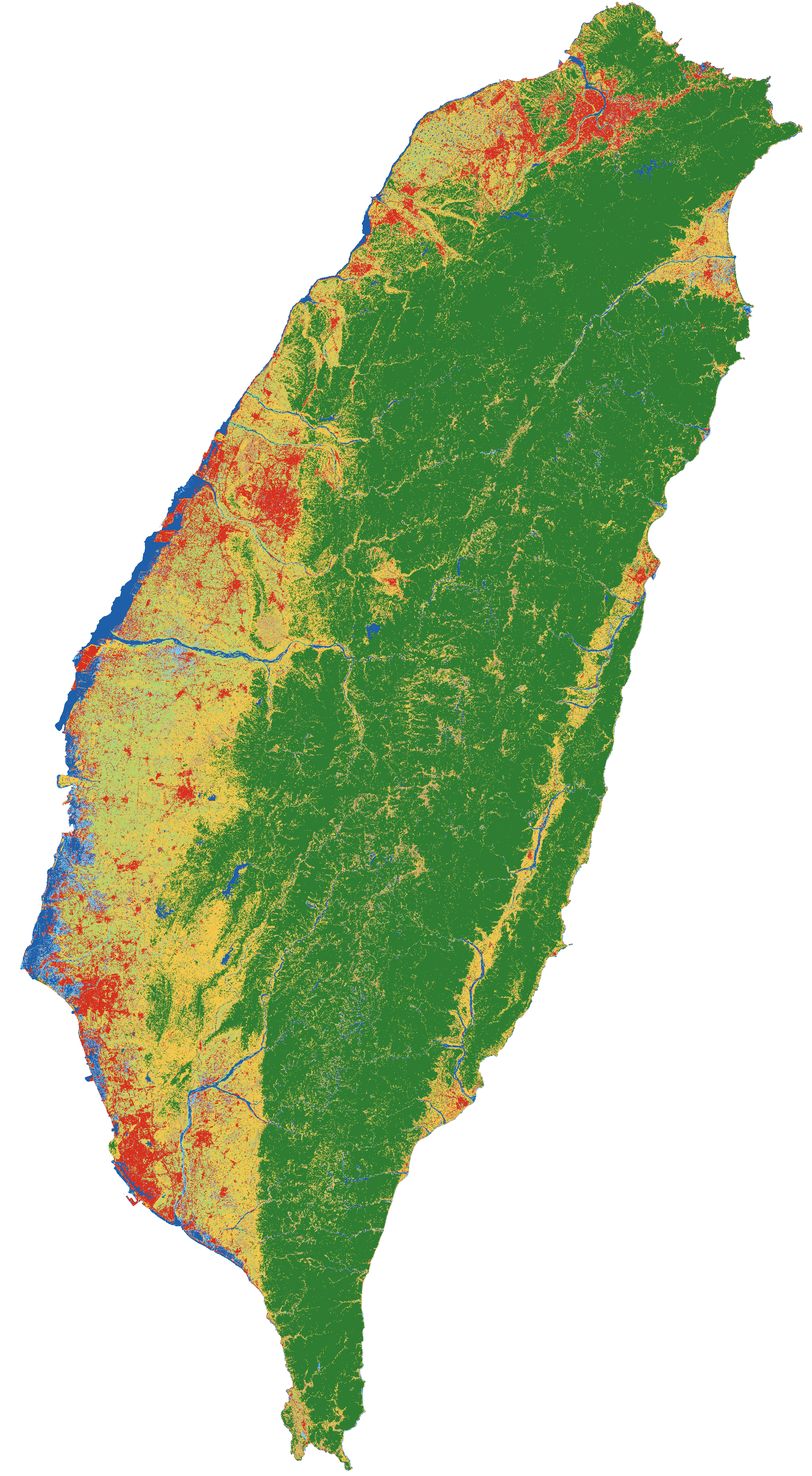
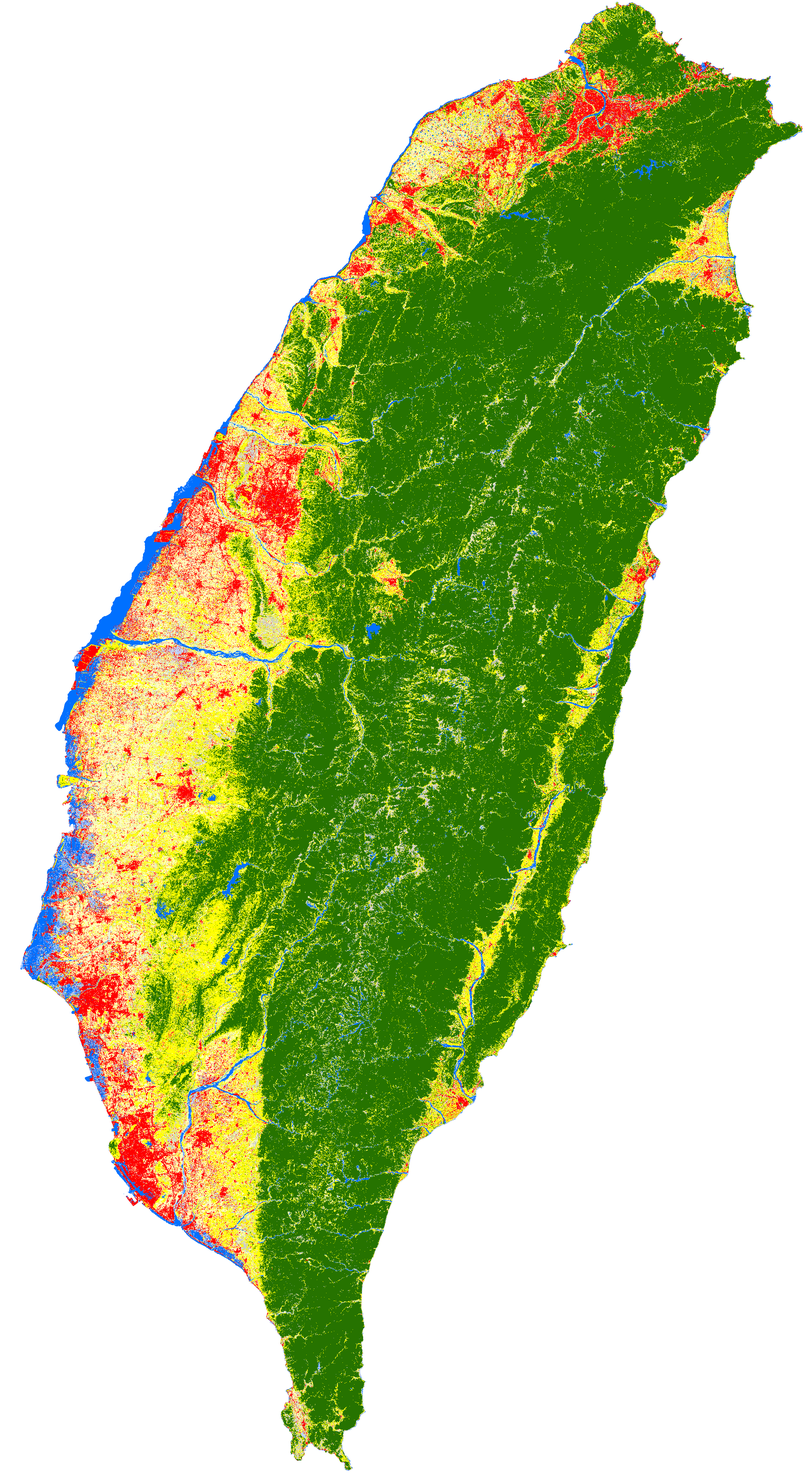
Match class colours to the paper's Fig. 5 legend
Pale colours are darkened for chart lines only; table swatches get an outline.

diff --git a/docs/index.html b/docs/index.html
@@ -68,7 +68,7 @@
   th, td { padding: 5px 4px; text-align: right; border-bottom: 1px solid var(--line); }
   th { font-size: 11px; color: var(--muted); font-weight: 600; }
   th:first-child, td:first-child { text-align: left; }
-  td .sw { display: inline-block; width: 12px; height: 12px; border-radius: 3px; vertical-align: -1px; margin-right: 7px; }
+  td .sw { display: inline-block; width: 12px; height: 12px; border-radius: 3px; vertical-align: -1px; margin-right: 7px; box-shadow: inset 0 0 0 1px rgba(0,0,0,.28); }
   .pos { color: #15803d; } .neg { color: #b91c1c; }
   :root[data-theme="dark"] .pos { color: #4ade80; } :root[data-theme="dark"] .neg { color: #f87171; }
   @media (prefers-color-scheme: dark) { :root:not([data-theme="light"]) .pos { color: #4ade80; } :root:not([data-theme="light"]) .neg { color: #f87171; } }
@@ -313,13 +313,21 @@
       ctx.restore();
     }
   };
+  // Very pale map colours (e.g. #ffffbe) vanish as chart lines: darken those for the chart only.
+  const lineColor = hex => {
+    const [r, g, b] = [1, 3, 5].map(i => parseInt(hex.slice(i, i + 2), 16));
+    const lum = (0.2126 * r + 0.7152 * g + 0.0722 * b) / 255;
+    if (lum < 0.7) return hex;
+    const f = 0.62;
+    return `rgb(${Math.round(r * f)},${Math.round(g * f)},${Math.round(b * f)})`;
+  };
   const chart = new Chart($('chart'), {
     type: 'line',
     data: {
       datasets: classIds.map(k => ({
         label: D.classes[k].name,
         data: layers.map(l => ({ x: l.year, y: km2(l.area_ha[k]) })),
-        borderColor: D.classes[k].color, backgroundColor: D.classes[k].color,
+        borderColor: lineColor(D.classes[k].color), backgroundColor: D.classes[k].color,
         borderWidth: 2, pointRadius: 3, tension: 0,
         segment: { borderDash: c => c.p1.parsed.x > lastHist ? [5, 4] : undefined }
       }))

diff --git a/docs/data/lulc.js b/docs/data/lulc.js
@@ -12,31 +12,31 @@ window.LULC = {
  "classes": {
   "1": {
    "name": "Barren",
-   "color": "#c8a26e"
+   "color": "#cccccc"
   },
   "2": {
    "name": "Uncultivated",
-   "color": "#b5d36b"
+   "color": "#ffffbe"
   },
   "3": {
-   "name": "Water Shallow",
-   "color": "#7cc6f2"
+   "name": "Shallow Water",
+   "color": "#bed2ff"
   },
   "4": {
-   "name": "Water Deep",
-   "color": "#1f5fa8"
+   "name": "Deep Water",
+   "color": "#0070ff"
   },
   "5": {
    "name": "Built-up",
-   "color": "#d7301f"
+   "color": "#ff0000"
   },
   "6": {
    "name": "Forest",
-   "color": "#2e7d32"
+   "color": "#267300"
   },
   "7": {
    "name": "Cultivated",
-   "color": "#f2c84b"
+   "color": "#ffff00"
   }
  },
  "layers": [
